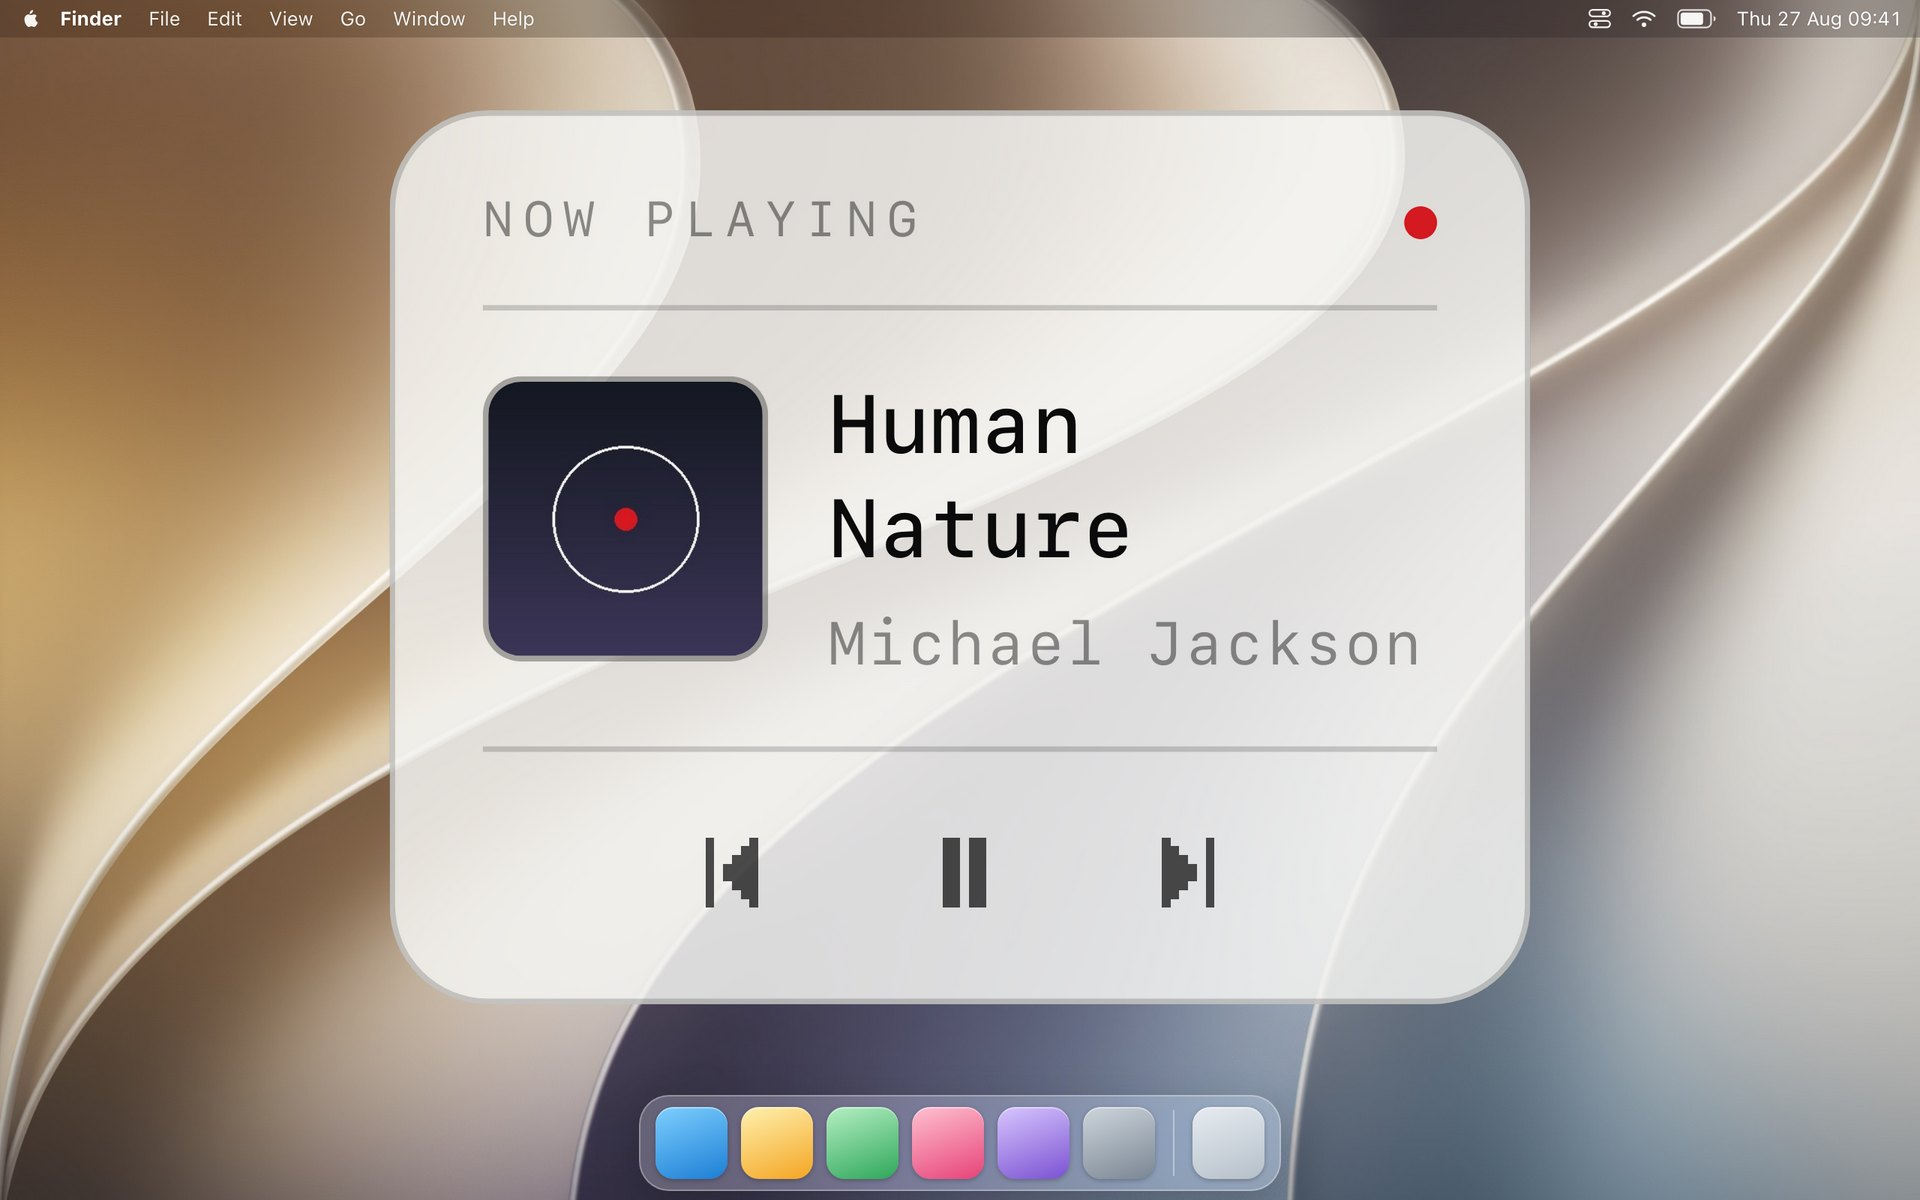
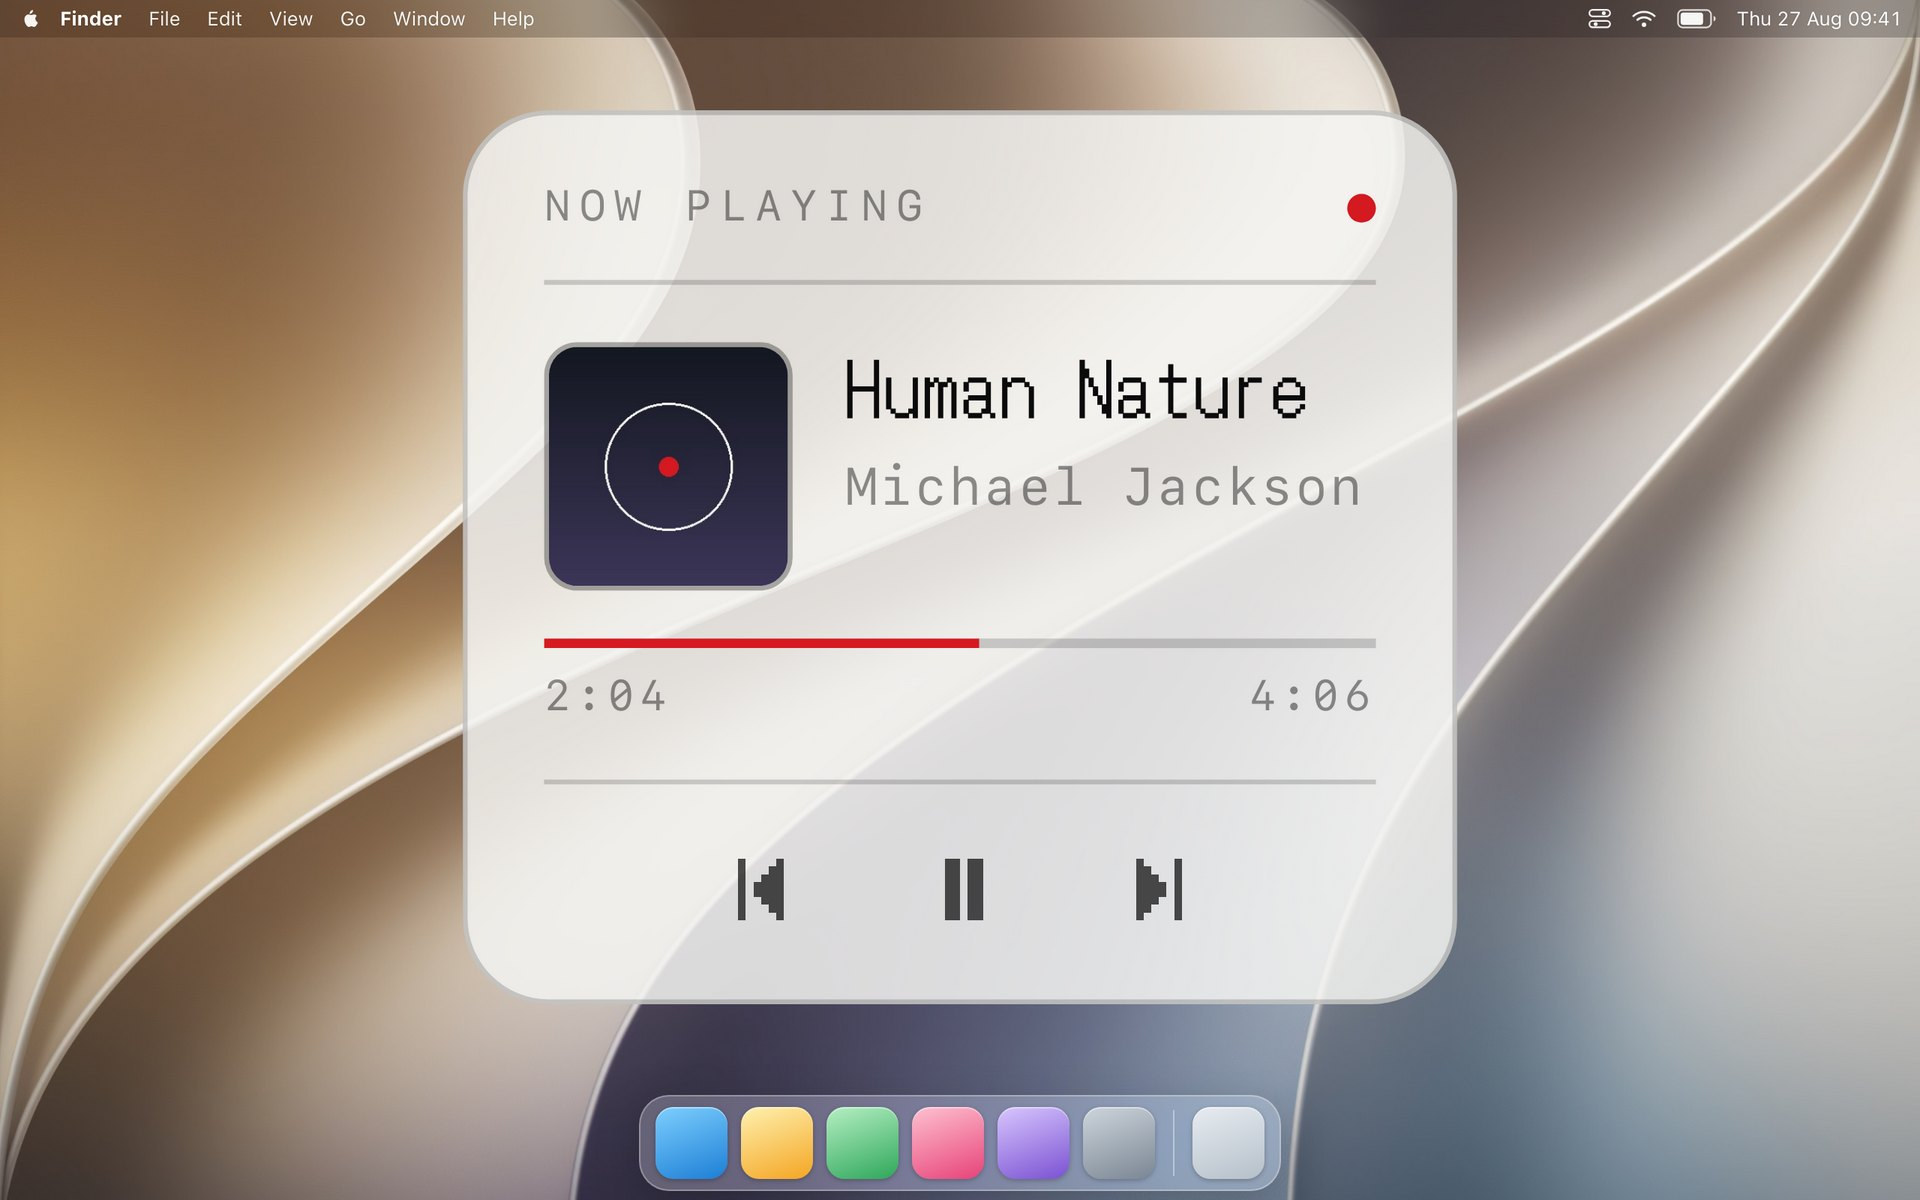
Show how far into a track, and name the show a podcast belongs to
A podcast episode has no artist, so the panel read unknown for one. The show it belongs to
is filed as the album, and Spotify says which it is in the url: an episode of anything is
spotify:episode:something. Verified against a real episode, where the artist comes back
empty and the album comes back as the show.

A rule under the title fills red as the track plays. It is a css animation rather than a
width that gets rewritten, so it moves rather than stepping once every few seconds: it
runs the length of the track and starts partway in, with a negative delay standing for how
much has already played, and every reading sets it again so it cannot drift. It pauses
when the player does. The elapsed and total times sit under it, with an hour shown when
there is one, which a podcast usually has.

Length is divided in the script rather than the widget because the two players disagree on
units: Spotify counts a track in milliseconds and Music in seconds. Both hand over
seconds.

A widget that draws out of flow now gets the desktop when it is photographed, the way
Gailan gives it a screen. Without that its slot had no width and its window hung off
whichever edge the slot was pinned to. Geometry reports what a widget painted rather than
the box around it, so a picture can be checked without opening it.

diff --git a/widgets/nowplaying/index.tsx b/widgets/nowplaying/index.tsx
@@ -22,15 +22,25 @@ export const command = [
   "osascript",
   '-e \'set a to ""\'',
   "-e 'tell application \"System Events\" to set p to name of processes'",
+  /* Duration is divided here rather than in the widget because the two players do not
+     agree on units: Spotify counts a track in milliseconds and Music counts it in
+     seconds. Both are handed over in seconds so nothing downstream has to know which
+     player answered. The url comes along because an episode says so in its url, which
+     is the only dependable way to tell a podcast from a song. */
   "-e 'if p contains \"Spotify\" then tell application \"Spotify\" to" +
     " if player state is not stopped then set a to (name of current track)" +
-    ' & "|" & (artist of current track) & "|" & (player state as string)' +
-    ' & "|" & (artwork url of current track)\'',
+    ' & "|" & (artist of current track) & "|" & (album of current track)' +
+    ' & "|" & (player state as string) & "|" & (artwork url of current track)' +
+    ' & "|" & (player position as string)' +
+    ' & "|" & (((duration of current track) / 1000) as string)' +
+    ' & "|" & (spotify url of current track)\'',
   // Music holds artwork as data rather than at a url, so there is nothing to point
   // at and the cover is left empty there
   "-e 'if a is \"\" and p contains \"Music\" then tell application \"Music\" to" +
     " if player state is not stopped then set a to (name of current track)" +
-    ' & "|" & (artist of current track) & "|" & (player state as string)\'',
+    ' & "|" & (artist of current track) & "|" & (album of current track)' +
+    ' & "|" & (player state as string) & "|" & "" & "|" & (player position as string)' +
+    ' & "|" & (duration of current track as string) & "|" & ""\'',
   "-e 'return a'",
 ].join(" ");
 
@@ -186,6 +196,11 @@ const Face = () => (
       src: url("${LETTERS}") format("woff2");
       font-display: block;
     }
+
+    @keyframes gailan-nowplaying-progress {
+      from { width: 0%; }
+      to { width: 100%; }
+    }
   `}</style>
 );
 
@@ -210,6 +225,55 @@ const Artist = styled("div")`
   overflow: hidden;
   text-overflow: ellipsis;
 `;
+
+/* How far into the track, as a rule with one red length filled. The fill is a css
+   animation rather than a width that gets rewritten, so it moves smoothly between
+   readings instead of stepping once every few seconds: it runs for the length of the
+   track and starts partway in, with a negative delay standing for how much has already
+   played. Every reading sets it again, so it cannot drift. */
+const Progress = styled("div")`
+  position: relative;
+  height: 2px;
+  margin-top: 10px;
+  background: var(--rule);
+  overflow: hidden;
+`;
+
+const Played = styled("div")`
+  position: absolute;
+  top: 0;
+  bottom: 0;
+  left: 0;
+  width: 0;
+  background: var(--red);
+  animation-name: gailan-nowplaying-progress;
+  animation-timing-function: linear;
+  animation-fill-mode: forwards;
+`;
+
+const Times = styled("div")`
+  display: flex;
+  justify-content: space-between;
+  margin-top: 5px;
+  font-size: 9px;
+  letter-spacing: 0.12em;
+  color: var(--dim);
+  font-variant-numeric: tabular-nums;
+`;
+
+/* 4048 seconds is an hour and eight minutes, and a podcast is long enough that the hour
+   has to show. A song never reaches one, so it is left off. */
+const clock = (seconds: number) => {
+  const whole = Math.max(0, Math.floor(seconds));
+  const hours = Math.floor(whole / 3600);
+  const minutes = Math.floor((whole % 3600) / 60);
+  const rest = whole % 60;
+  const pad = (n: number) => String(n).padStart(2, "0");
+
+  return hours > 0
+    ? hours + ":" + pad(minutes) + ":" + pad(rest)
+    : minutes + ":" + pad(rest);
+};
 
 const Silent = styled("div")`
   font-size: 13px;
@@ -450,8 +514,20 @@ export const render = ({ output, error, settings }: State) => {
   }
 
   // artwork urls carry no pipe, so splitting on it is safe
-  const [title, artist, state, artwork] = output.trim().split("|");
+  const [title, artist, album, state, artwork, at, length, url] = output
+    .trim()
+    .split("|");
   const playing = state === "playing";
+
+  /* A podcast episode has no artist, and the show it belongs to is filed as its album.
+     Spotify says so in the url as well, which is the dependable half of the test: an
+     episode of anything is spotify:episode:something. */
+  const episode = (url || "").indexOf(":episode:") > -1;
+  const by = (artist || "").trim() || (album || "").trim();
+
+  const position = Number(at);
+  const total = Number(length);
+  const measured = Number.isFinite(position) && Number.isFinite(total) && total > 0;
 
   if (!title) {
     return (
@@ -491,9 +567,35 @@ export const render = ({ output, error, settings }: State) => {
         )}
         <Words>
           <Title>{title}</Title>
-          <Artist>{artist || "unknown"}</Artist>
+          <Artist>{by || (episode ? "podcast" : "unknown")}</Artist>
         </Words>
       </Track>
+
+      {measured ? (
+        <>
+          <Progress
+            role="progressbar"
+            aria-valuemin={0}
+            aria-valuemax={Math.round(total)}
+            aria-valuenow={Math.round(position)}
+            aria-label={`${clock(position)} of ${clock(total)}`}
+          >
+            <Played
+              style={{
+                animationDuration: `${total}s`,
+                /* how much has already played */
+                animationDelay: `-${Math.min(position, total)}s`,
+                animationPlayState: playing ? "running" : "paused",
+              }}
+            />
+          </Progress>
+
+          <Times>
+            <span>{clock(position)}</span>
+            <span>{clock(total)}</span>
+          </Times>
+        </>
+      ) : null}
 
       <Transport playing={playing} />
     </Panel>

diff --git a/scripts/screenshot.js b/scripts/screenshot.js
@@ -439,7 +439,38 @@ function capture(binary, url, done) {
           widgets: [...document.querySelectorAll('.slot')].map((slot) => {
             // the slot takes the widget's size, so it is the honest thing to
             // measure: a widget may render a <style> first, which has none
-            const box = slot.getBoundingClientRect();
+            let box = slot.getBoundingClientRect();
+
+            // Unless the widget draws itself out of flow, which the starter widget
+            // does: it covers the desktop and puts a window somewhere inside. Measuring
+            // the slot then reports either nothing at all or the whole screen, and
+            // neither says where the thing you can see ended up, so what it painted is
+            // measured instead.
+            const covers =
+              box.width >= ${WIDTH} - 1 && box.height >= ${HEIGHT} - 1;
+            if (!box.width || !box.height || covers) {
+              let union = null;
+              slot.querySelectorAll('*').forEach((node) => {
+                const inner = node.getBoundingClientRect();
+                if (!inner.width || !inner.height) return;
+                union = union
+                  ? {
+                      left: Math.min(union.left, inner.left),
+                      top: Math.min(union.top, inner.top),
+                      right: Math.max(union.right, inner.right),
+                      bottom: Math.max(union.bottom, inner.bottom),
+                    }
+                  : {left: inner.left, top: inner.top, right: inner.right, bottom: inner.bottom};
+              });
+              if (union) {
+                box = {
+                  x: union.left,
+                  y: union.top,
+                  width: union.right - union.left,
+                  height: union.bottom - union.top,
+                };
+              }
+            }
             return {
               // innerText, so a font-face rule is not mistaken for the readout
               text: (slot.innerText || '').replace(/\s+/g, ' ').trim().slice(0, 48),

diff --git a/template/screenshot/desktop.html b/template/screenshot/desktop.html
@@ -168,6 +168,19 @@
         left: 50%;
         transform: translateX(-50%);
       }
+
+      /* A widget that covers its screen and draws inside it, the way the starter widget
+         does, needs the screen to cover. Gailan gives it one the size of the display, so
+         a slot that hugged its contents would leave it nothing to place itself against
+         and the window would land in the corner of a box with no width. */
+      .slot.screen {
+        top: 0;
+        right: 0;
+        bottom: 0;
+        left: 0;
+        width: auto;
+        height: auto;
+      }
     </style>
   </head>
   <body>
@@ -315,6 +328,20 @@
           }),
           slot
         );
+
+        // A widget that draws out of flow leaves its slot with no size, and a slot with
+        // no size is no screen to place a window against: the window ends up hanging off
+        // whichever edge the slot was pinned to. Such a widget gets the desktop, which
+        // is what Gailan gives it, and is told the screen changed so anything measuring
+        // itself measures again.
+        requestAnimationFrame(() => {
+          const box = slot.getBoundingClientRect();
+          if (box.width && box.height) return;
+
+          slot.classList.add("screen");
+          slot.style.cssText = "";
+          window.dispatchEvent(new Event("resize"));
+        });
       });
 
       // Several widgets read as a desktop, and a desktop wants them tidy: down the
